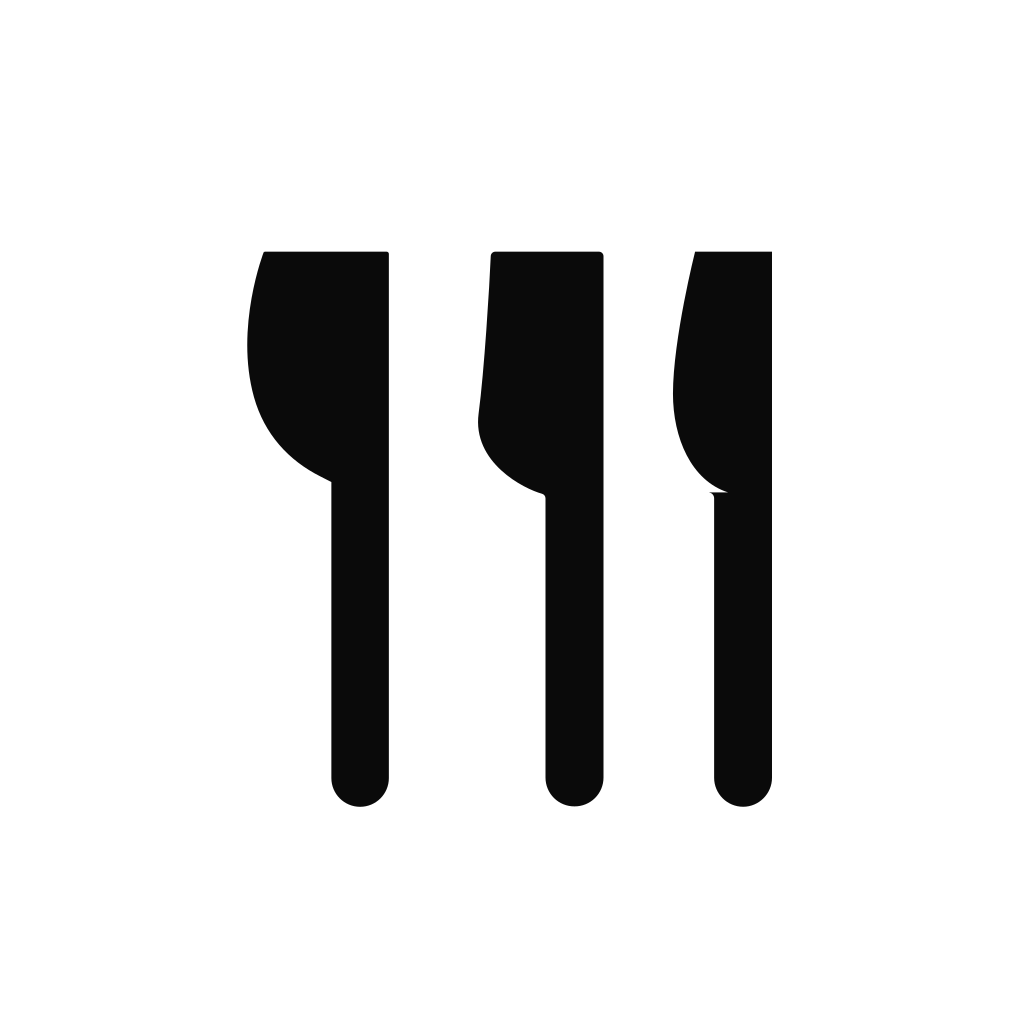
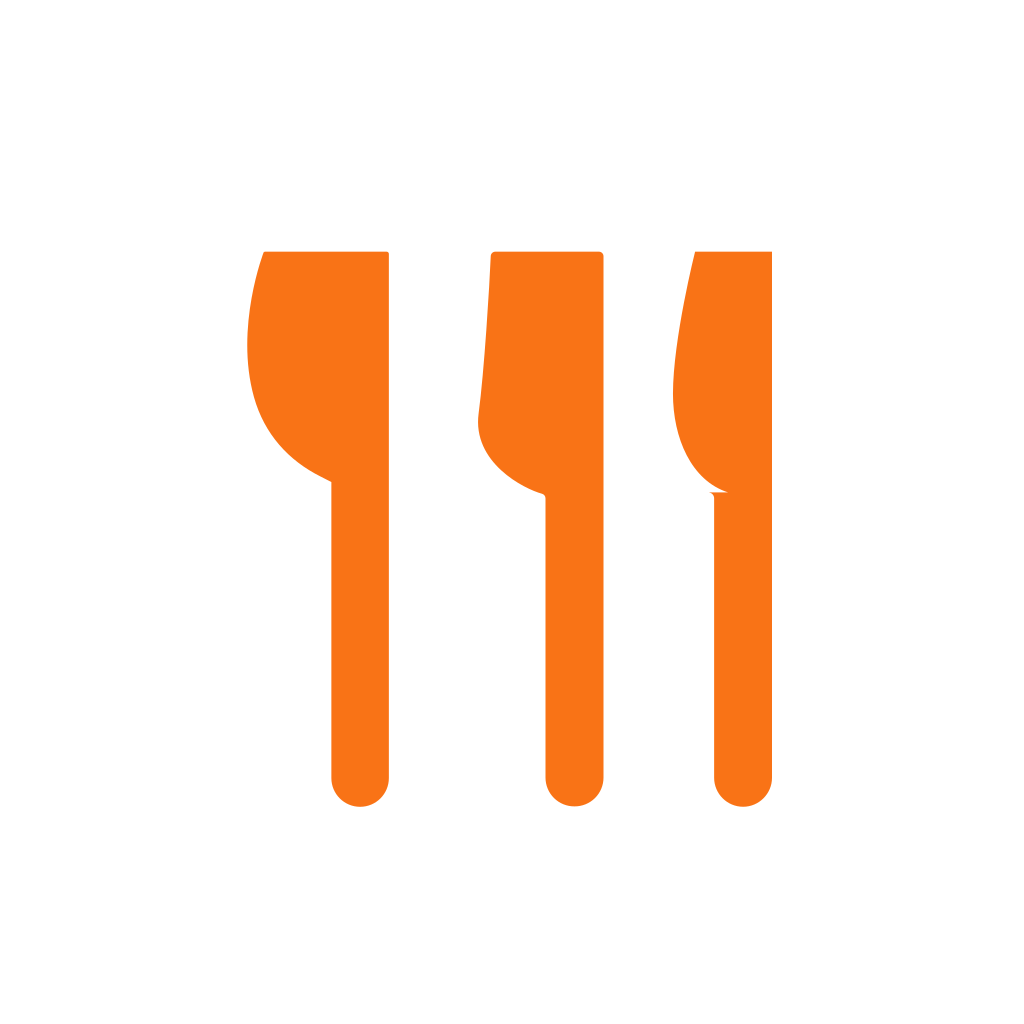
ui: add warm-orange accent + give title its own row
Layout: brand icon and API chip now sit in a small chrome row above
the title. The display title takes the full screen width on its own
line so 'Find a restaurant' (and longer) never has to compete for
horizontal space with the dev chip - no truncation needed.

Accent: theme picks up #f97316 as the brand accent. Primary button
background flips from black to orange; the brand fork glyph (in the
header and in the app icon / splash PNG) is also orange. Disabled
button state still greys out. Secondary 'Manage account' stays
outlined black for visual contrast against the orange primary.

Changed region(s): [[0.2188, 0.2188, 0.4062, 0.8125], [0.6562, 0.2188, 0.7812, 0.8125], [0.4688, 0.2188, 0.5938, 0.7812]]

diff --git a/mobile/components/ScreenLayout.tsx b/mobile/components/ScreenLayout.tsx
@@ -16,15 +16,11 @@ const TAB_BAR_HEIGHT = Platform.select({ ios: 84, default: 68 }) ?? 68;
 export function ScreenLayout({ title, subtitle, topRight, children }: Props) {
   return (
     <SafeAreaView edges={['top', 'left', 'right']} style={styles.root}>
-      <View style={styles.header}>
-        <View style={styles.brand}>
-          <Ionicons name="restaurant" size={24} color={colors.text} />
-          <Text style={styles.title} numberOfLines={1} ellipsizeMode="tail">
-            {title}
-          </Text>
-        </View>
+      <View style={styles.chrome}>
+        <Ionicons name="restaurant" size={22} color={colors.accent} />
         {topRight}
       </View>
+      <Text style={styles.title}>{title}</Text>
       {subtitle && <Text style={styles.subtitle}>{subtitle}</Text>}
       <View style={styles.content}>{children}</View>
     </SafeAreaView>
@@ -36,24 +32,19 @@ const styles = StyleSheet.create({
     flex: 1,
     backgroundColor: colors.bg,
   },
-  header: {
+  chrome: {
     flexDirection: 'row',
     alignItems: 'center',
+    justifyContent: 'space-between',
     paddingHorizontal: space.lg,
     paddingTop: space.md,
-    gap: space.sm,
-  },
-  brand: {
-    flex: 1,
-    flexDirection: 'row',
-    alignItems: 'center',
-    gap: space.sm,
-    minWidth: 0,
+    minHeight: 28,
   },
   title: {
     ...type.display,
     color: colors.text,
-    flex: 1,
+    paddingHorizontal: space.lg,
+    marginTop: space.sm,
   },
   subtitle: {
     ...type.subtitle,

diff --git a/mobile/lib/theme.ts b/mobile/lib/theme.ts
@@ -12,8 +12,12 @@ export const colors = {
   // Lines
   hairline: '#e5e5e5',
 
+  // Brand accent (warm orange)
+  accent: '#f97316',
+  accentPressed: '#ea580c',
+
   // Buttons
-  primaryBg: '#0a0a0a',
+  primaryBg: '#f97316',
   primaryText: '#ffffff',
   primaryBgDisabled: '#e5e5e5',
   primaryTextDisabled: '#a3a3a3',